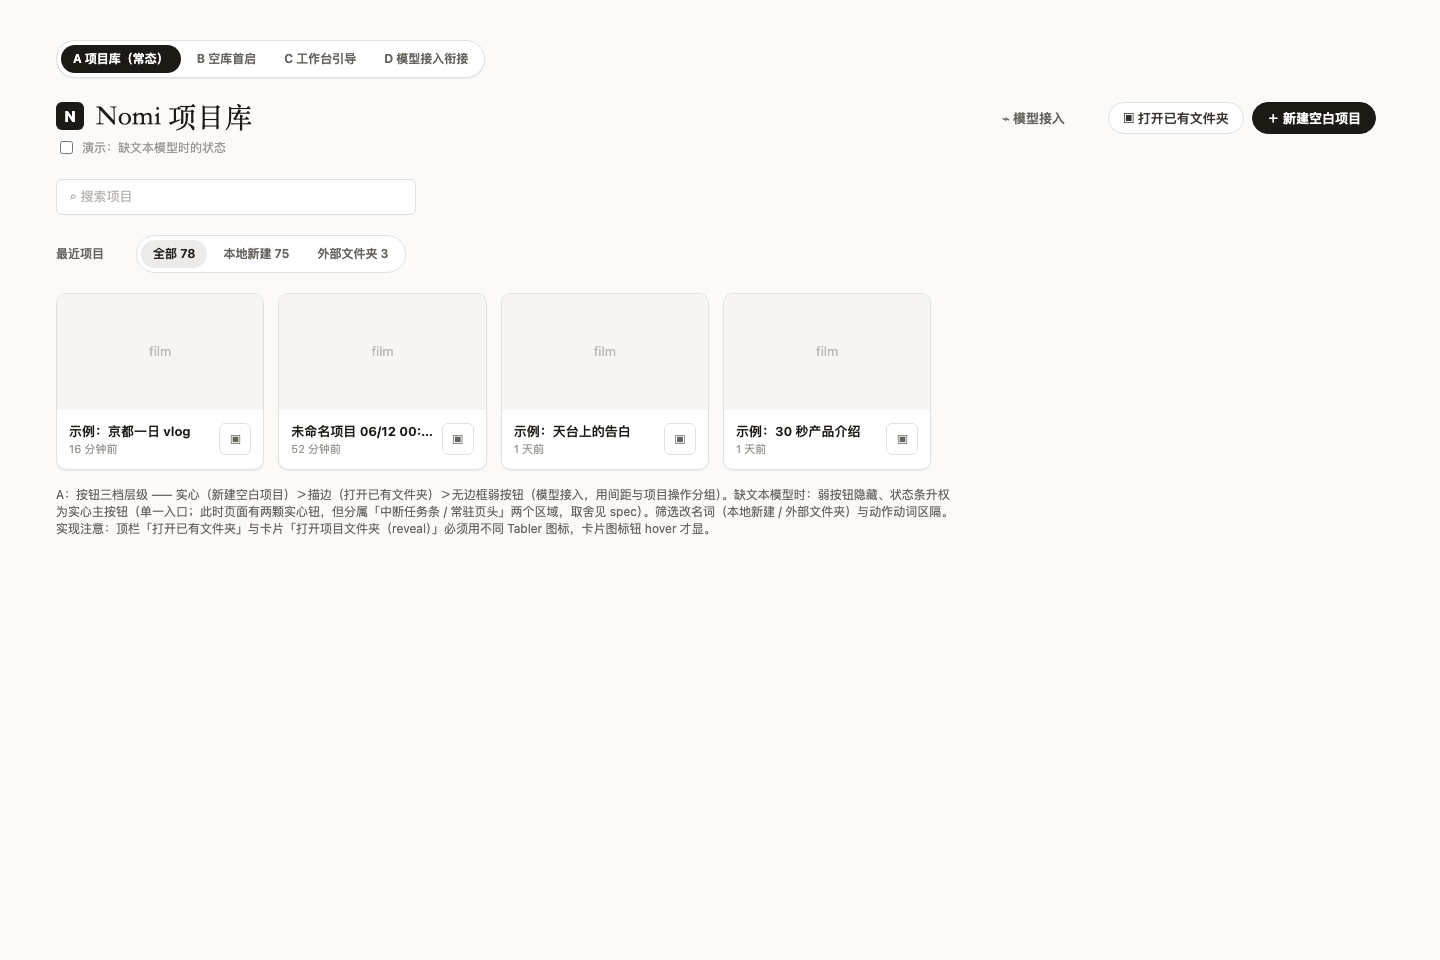
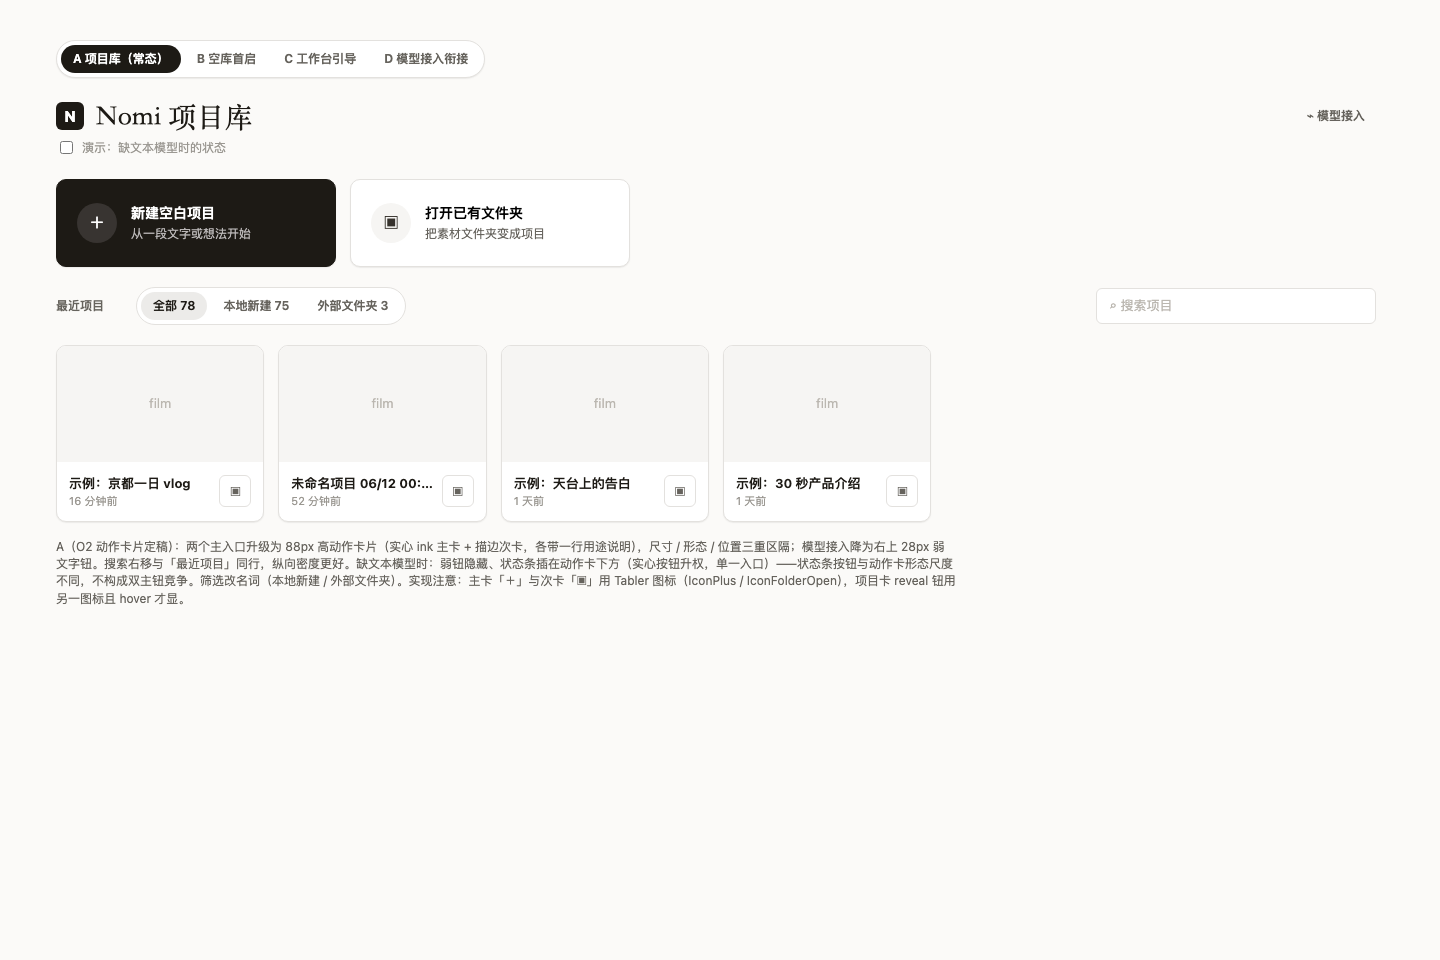
docs(design): v3 定稿并入 O2 动作卡片布局——主入口尺寸/形态/位置三重区隔
为什么:用户拍板 v4 选项板的 O2(动作卡片);v3 原 A 屏只有颜色深浅
区隔,布局与按钮尺寸同现状,主次不够狠。

做了什么:A 屏主入口升级为 88px 动作卡片(实心主卡+描边次卡,各带
用途行),模型接入降为右上 28px 弱文字钮,搜索与「最近项目」同行;
缺模型状态条插卡片下方,原「双实心钮」开放项随形态区隔消解。spec
§3/§6 同步,ActionCard 标记为待登记新组件(§9 协议)。

验证:Playwright 重截 A/A2 人眼核对,层级清晰无遮挡。

diff --git a/docs/design/mockups/2026-06-12-start-page-onboarding-v3.html b/docs/design/mockups/2026-06-12-start-page-onboarding-v3.html
@@ -123,6 +123,41 @@
       font-size: 14px;
     }
 
+    .button.sm {
+      height: 28px;
+      padding: 0 10px;
+      font-size: 12px;
+    }
+
+    /* ===== 动作卡片（O2 拍板）：主入口的尺寸/形态/位置三重区隔 ===== */
+    .action-cards { display: flex; gap: 14px; }
+
+    .action-card {
+      display: flex; align-items: center; gap: 14px; text-align: left;
+      width: 280px; height: 88px; padding: 0 20px;
+      border: 1px solid var(--nomi-line);
+      border-radius: var(--nomi-radius);
+      background: var(--nomi-paper);
+      box-shadow: var(--nomi-shadow-sm);
+      cursor: pointer;
+    }
+
+    .action-card .ic {
+      width: 40px; height: 40px; flex: none;
+      display: grid; place-items: center;
+      border-radius: 999px;
+      background: var(--nomi-ink-05);
+      color: var(--nomi-ink-80);
+      font-size: 18px;
+    }
+
+    .action-card .t { display: block; font-size: 14px; font-weight: 700; }
+    .action-card .d { display: block; margin-top: 2px; font-size: 12px; color: var(--nomi-ink-60); }
+
+    .action-card.primary { border-color: var(--nomi-ink); background: var(--nomi-ink); color: var(--nomi-paper); }
+    .action-card.primary .ic { background: color-mix(in oklch, var(--nomi-paper) 14%, var(--nomi-ink)); color: var(--nomi-paper); }
+    .action-card.primary .d { color: color-mix(in oklch, var(--nomi-paper) 72%, var(--nomi-ink)); }
+
     /* ===== 库页骨架 ===== */
     .library-shell { display: flex; flex-direction: column; gap: 20px; }
 
@@ -170,9 +205,6 @@
       gap: 8px;
       flex-wrap: wrap;
     }
-
-    /* 弱入口与项目操作之间留分组距离：层级靠间距，不靠双 border */
-    .action-row .group-gap { width: 12px; }
 
     /* ===== 模型状态条（条件出现，是模型接入的唯一升权形态）===== */
     .status-panel {
@@ -580,12 +612,18 @@
           <h1 class="brand"><span class="mark">N</span>Nomi 项目库</h1>
           <label class="demo-toggle"><input id="toggle-no-model" type="checkbox" /> 演示：缺文本模型时的状态</label>
         </div>
-        <div class="action-row" aria-label="开始一个项目">
-          <button class="button subtle" id="model-entry">⌁ 模型接入</button>
-          <span class="group-gap" aria-hidden="true"></span>
-          <button class="button">▣ 打开已有文件夹</button>
-          <button class="button primary">＋ 新建空白项目</button>
-        </div>
+        <button class="button sm subtle" id="model-entry">⌁ 模型接入</button>
+      </div>
+
+      <div class="action-cards" aria-label="开始一个项目">
+        <button class="action-card primary">
+          <span class="ic">＋</span>
+          <span><span class="t">新建空白项目</span><span class="d">从一段文字或想法开始</span></span>
+        </button>
+        <button class="action-card">
+          <span class="ic">▣</span>
+          <span><span class="t">打开已有文件夹</span><span class="d">把素材文件夹变成项目</span></span>
+        </button>
       </div>
 
       <section class="status-panel" id="model-banner" hidden aria-label="模型状态">
@@ -596,17 +634,16 @@
         <button class="button primary">接入文本模型</button>
       </section>
 
-      <div class="toolbar">
-        <div class="search">⌕ 搜索项目</div>
-      </div>
-
-      <div class="section-head">
-        <h2 class="section-title">最近项目</h2>
-        <div class="segmented" aria-label="按来源筛选">
-          <button class="active">全部 78</button>
-          <button>本地新建 75</button>
-          <button>外部文件夹 3</button>
+      <div class="toolbar" style="justify-content: space-between;">
+        <div class="section-head">
+          <h2 class="section-title">最近项目</h2>
+          <div class="segmented" aria-label="按来源筛选">
+            <button class="active">全部 78</button>
+            <button>本地新建 75</button>
+            <button>外部文件夹 3</button>
+          </div>
         </div>
+        <div class="search" style="width: 280px;">⌕ 搜索项目</div>
       </div>
 
       <section class="projects" aria-label="最近项目">
@@ -616,7 +653,7 @@
         <article class="project-card"><div class="thumb">film</div><div class="card-body"><div><h3 class="card-title">示例：30 秒产品介绍</h3><div class="card-time">1 天前</div></div><button class="icon-button" title="打开项目文件夹">▣</button></div></article>
       </section>
     </section>
-    <p class="note">A：按钮三档层级 —— 实心（新建空白项目）＞描边（打开已有文件夹）＞无边框弱按钮（模型接入，用间距与项目操作分组）。缺文本模型时：弱按钮隐藏、状态条升权为实心主按钮（单一入口；此时页面有两颗实心钮，但分属「中断任务条 / 常驻页头」两个区域，取舍见 spec）。筛选改名词（本地新建 / 外部文件夹）与动作动词区隔。实现注意：顶栏「打开已有文件夹」与卡片「打开项目文件夹（reveal）」必须用不同 Tabler 图标，卡片图标钮 hover 才显。</p>
+    <p class="note">A（O2 动作卡片定稿）：两个主入口升级为 88px 高动作卡片（实心 ink 主卡 + 描边次卡，各带一行用途说明），尺寸 / 形态 / 位置三重区隔；模型接入降为右上 28px 弱文字钮。搜索右移与「最近项目」同行，纵向密度更好。缺文本模型时：弱钮隐藏、状态条插在动作卡下方（实心按钮升权，单一入口）——状态条按钮与动作卡形态尺度不同，不构成双主钮竞争。筛选改名词（本地新建 / 外部文件夹）。实现注意：主卡「＋」与次卡「▣」用 Tabler 图标（IconPlus / IconFolderOpen），项目卡 reveal 钮用另一图标且 hover 才显。</p>
   </main>
 
   <!-- ============ B：空库首启 ============ -->

diff --git a/docs/design/2026-06-12-start-page-onboarding-v3-spec.md b/docs/design/2026-06-12-start-page-onboarding-v3-spec.md
@@ -2,8 +2,9 @@
 
 日期：2026-06-12
 样张（验收合同）：`docs/design/mockups/2026-06-12-start-page-onboarding-v3.html`
-截图：`docs/design/reviews/2026-06-12-start-v3-{a,a2,b,c,d}-*.png`
-状态：**待用户拍板**（R8 步骤 4）
+布局选项板（已拍板 O2）：`docs/design/mockups/2026-06-12-start-page-layout-options-v4.html`
+截图：`docs/design/reviews/2026-06-12-start-v3-{a,a2,b,c,d}-*.png`、`2026-06-12-start-v4-o{1,2,3}-*.png`
+状态：A 屏布局已拍板 O2 动作卡片；整体方案待用户最终确认后进入实现（R8 步骤 4）
 
 ## 1. 背景与 v2 的洞
 
@@ -33,12 +34,17 @@ v2 经评审发现的洞（本版逐条修复）：
 
 ## 3. 四屏规范要点
 
-### A 项目库（常态）
-- 按钮三档层级：实心 `bg-nomi-ink`（新建空白项目，行尾最重位）＞描边 `border-nomi-line bg-nomi-paper`（打开已有文件夹）＞无边框 subtle `text-nomi-ink-60`（模型接入）；弱钮与项目操作之间留 12px 分组距，不加 divider
+### A 项目库（常态）—— 布局拍板：O2 动作卡片（2026-06-12，v4 选项板三选一）
+- **主入口 = 动作卡片**（剪映/CapCut/Resolve 起始页惯例），不再是一排同尺寸 pill：
+  - 主卡「新建空白项目」：280×88，`bg-nomi-ink text-nomi-paper rounded-nomi shadow-nomi-sm`，左 40px 圆形图标位（IconPlus），标题 14px/700 + 用途行「从一段文字或想法开始」（12px，paper 72% 派生色，封 token）
+  - 次卡「打开已有文件夹」：同尺寸，`bg-nomi-paper border-nomi-line`，IconFolderOpen + 用途行「把素材文件夹变成项目」
+  - **ActionCard 为新组件**：按设计系统 §9 协议登记后实现（通用 → `src/design/`）
+- 模型接入降为页头右上 28px 无边框弱文字钮（`text-nomi-ink-60`），与动作卡尺寸/形态/位置三重区隔
+- 搜索框右移，与「最近项目 + 筛选」同一行（左 section-head / 右 280px 搜索），纵向密度优于现状
 - 删除：Try Now hero（`ProjectLibraryPage.tsx:98-148`）、副标题、micro-note（`:192-195`）
 - 筛选 segmented 文案：`全部 N` / `本地新建 N` / `外部文件夹 N`（数据已有 `source: 'native'|'folder'`）
-- 顶栏「打开已有文件夹」与卡片「打开项目文件夹（reveal）」**必须不同 Tabler 图标**（IconFolderOpen vs IconFolderShare 类），卡片图标钮 hover 才显
-- 缺模型态：状态条（PanelCard 形态）标题「文本模型未接入」+「写故事、拆镜头都需要它；图片 / 视频模型可以等到生成前再接。」+ 实心「接入文本模型」。已知取舍：此时页面同屏两颗实心钮，分属「中断任务条 / 常驻页头」两区域（设计师 P0-2 的折中，开放项 ①）
+- 主卡/次卡/项目卡 reveal 钮三处图标互不相同（IconPlus / IconFolderOpen / 另选 reveal 图标），项目卡图标钮 hover 才显
+- 缺模型态：弱钮隐藏，状态条插在**动作卡下方**（PanelCard 形态）：「文本模型未接入」+「写故事、拆镜头都需要它；图片 / 视频模型可以等到生成前再接。」+ 实心「接入文本模型」——与动作卡形态尺度不同，无双主钮竞争（原开放项 ① 已随 O2 拍板消解）
 
 ### B 空库首启
 - hero 直接坐在 `--nomi-bg` 上，**无容器边框**（dashed 框 = 拖放区暗示，误导）
@@ -81,7 +87,7 @@ v2 经评审发现的洞（本版逐条修复）：
 
 ## 6. 开放项（实现前可不阻塞，列给用户知情）
 
-1. A2 同屏两颗实心钮的取舍（中断条 vs 页头）——如不接受，备选：缺模型时页头「新建空白项目」降为描边
+1. ~~A2 同屏两颗实心钮的取舍~~ —— 已随 O2 动作卡片拍板消解（主入口为卡片形态，状态条按钮不构成同形态竞争）
 2. tour 重看入口：appbar 常驻「?」 vs 并入设置（评审认为常驻 chrome 服务一次性功能偏重）
 3. 供应商 Key 指引文案的数据维护（各家免费额度会变，文案别写死具体额度数字）
 4. mockup 中 650/750 字重、28px 品牌字号等沿用现有页面实况；实现时以现有 `ProjectLibraryPage` 实际 token 为准，不新增非 token 值